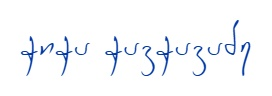
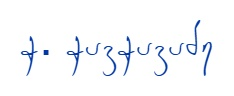
update 2.0 signature

Changed region(s): [[0.0598, 0.1875, 0.9274, 0.8125]]

diff --git a/client/src/components/wizard/signatureUtils.ts b/client/src/components/wizard/signatureUtils.ts
@@ -2,9 +2,10 @@ import { GEO_ELGUJA_FONT_BASE64 } from "./geoElgujaBase64";
 const FONT = "IronSignatureGeoElguja";
 let fontReady: Promise<void> | undefined;
 
-// Preserve confirmed fields verbatim. The only added character is the separator.
+// Abbreviate only the rendered signature; never mutate confirmed name fields.
 export function signatureText(firstName = "", lastName = ""): string {
-  return firstName && lastName ? `${firstName} ${lastName}` : firstName || lastName;
+  const initial = Array.from(firstName)[0];
+  return initial ? `${initial}. ${lastName}` : lastName;
 }
 
 // Legacy ASCII font encoding, used ONLY for drawing, never stored in name fields.

diff --git a/docs/signature-georgian-rendering.md b/docs/signature-georgian-rendering.md
@@ -10,7 +10,7 @@ The confirmed name was not changed in form storage. The draw-time text was conve
 
 1. `Step1Identity.tsx` copies extracted `firstName`/`name` and `lastName`/`surname` into form data. Editable confirmation fields write their values directly. No `წ`/`ჭ` substitution was found there. Photo resets invalidate signature data independently.
 2. `Step2Profile.tsx` generates the cached signature before navigation. The final step previews it, and both dashboard submission paths send it. Previously there were two duplicate ASCII maps plus an unrelated `DM Ambrosi UNI` workspace fallback with abbreviation, uppercasing and a short font-load timeout.
-3. All local paths now use `signatureUtils.ts`. Only the legacy font encoding is corrected (`წ -> w`, `ჭ -> W`). There is **no global replacement of Georgian characters**. Stored first/last names remain unchanged, including case and whitespace. The signature now renders both confirmed fields in full, separated by one space; it no longer truncates the first name to an initial.
+3. All local paths now use `signatureUtils.ts`. Only the legacy font encoding is corrected (`წ -> w`, `ჭ -> W`). There is **no global replacement of Georgian characters**. Stored first/last names remain unchanged, including case and whitespace. The generated signature dynamically renders the current confirmed first name's first Unicode character, followed by ". " and the complete confirmed surname. Only the signature is abbreviated; stored and submitted name fields retain their full values. No name is hardcoded.
 4. The font is explicitly loaded with `FontFace` before rendering. Failure does not silently draw encoded ASCII using another font. Non-Georgian characters use a system Unicode font instead of the legacy font's Georgian-encoded Latin slots. Canvas size follows glyph bounds, avoiding the old fixed 400x80 clipping, and JPEG quality is 0.95 instead of 0.5.
 5. The final preview displays the actual rendered canvas, not a second independently encoded text preview. Old asynchronous renders cannot overwrite a newer confirmed name. Both submission paths regenerate from current confirmed names instead of trusting a previously persisted incorrect signature.
 
@@ -24,7 +24,7 @@ The confirmed name was not changed in form storage. The draw-time text was conve
 
 ## Local verification artifacts
 
-`tests/signature-inspect.mjs` renders the old font's `w`/`W` beside the Unicode Sylfaen reference. `tests/signature-rendering.test.mjs` executes the actual shared renderer for `წიწა წერეთელი`, `ჭიჭა ჭავჭავაძე`, `წიწა ჭიჭინაძე`, and a whitespace-preservation case. It asserts exact full-name strings and distinct glyph encodings, then generates real JPEG signatures and a local PDF proof with those images.
+`tests/signature-inspect.mjs` renders the old font's `w`/`W` beside the Unicode Sylfaen reference. `tests/signature-rendering.test.mjs` executes the actual shared renderer for four different confirmed-name pairs, covering წ, ჭ, both letters in one surname, and trailing surname whitespace. It asserts the dynamic initial-plus-surname strings, unchanged input fields, and distinct glyph encodings, then generates real JPEG signatures and a local PDF proof with those images. After restoring abbreviation, this test and TypeScript passed; the regenerated PDF page was visually inspected. Existing duplicate-submission and identity-flow code was not changed by this formatting adjustment.
 
 Artifacts are under `output/pdf/`: `legacy-glyph-comparison.png`, `signature-1.jpg` through `signature-4.jpg`, `signature-proof-browser.png`, `signature-proof.pdf`, and `signature-proof-data.json`. This PDF is explicitly a **local verification document, not the final n8n application PDF**. Production PDF visual verification remains blocked pending that artifact or workflow access; no real applications were sent.
 
